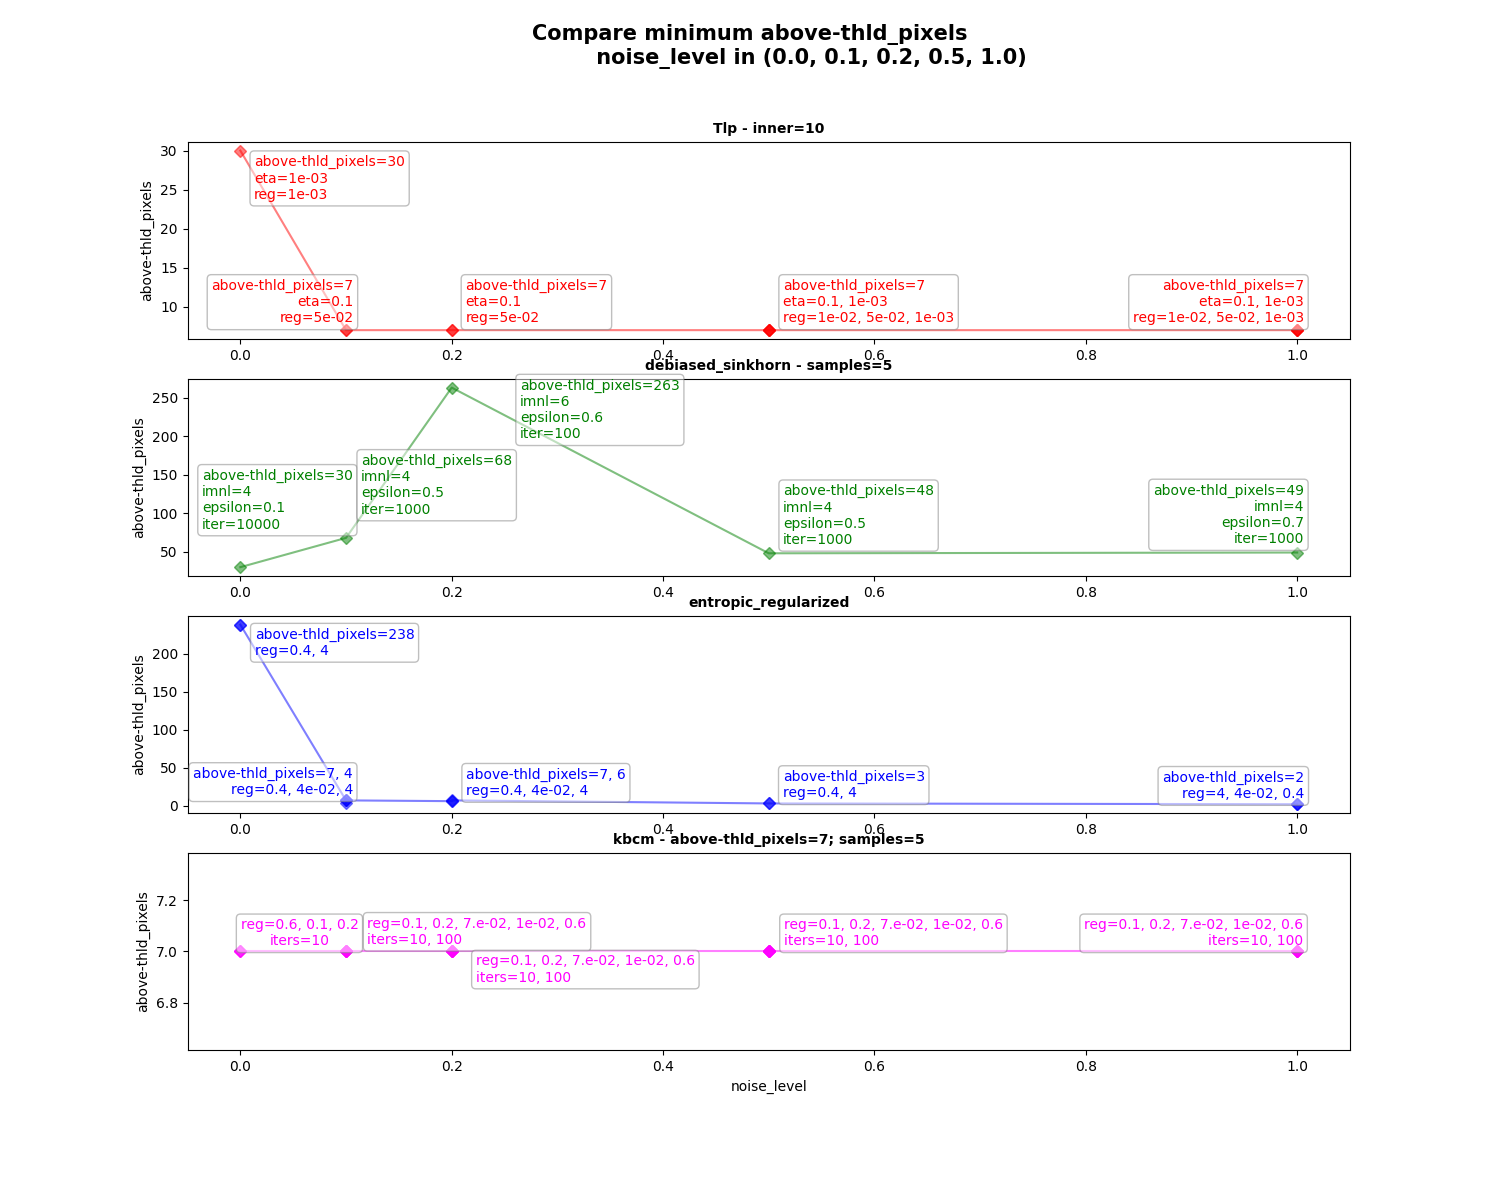
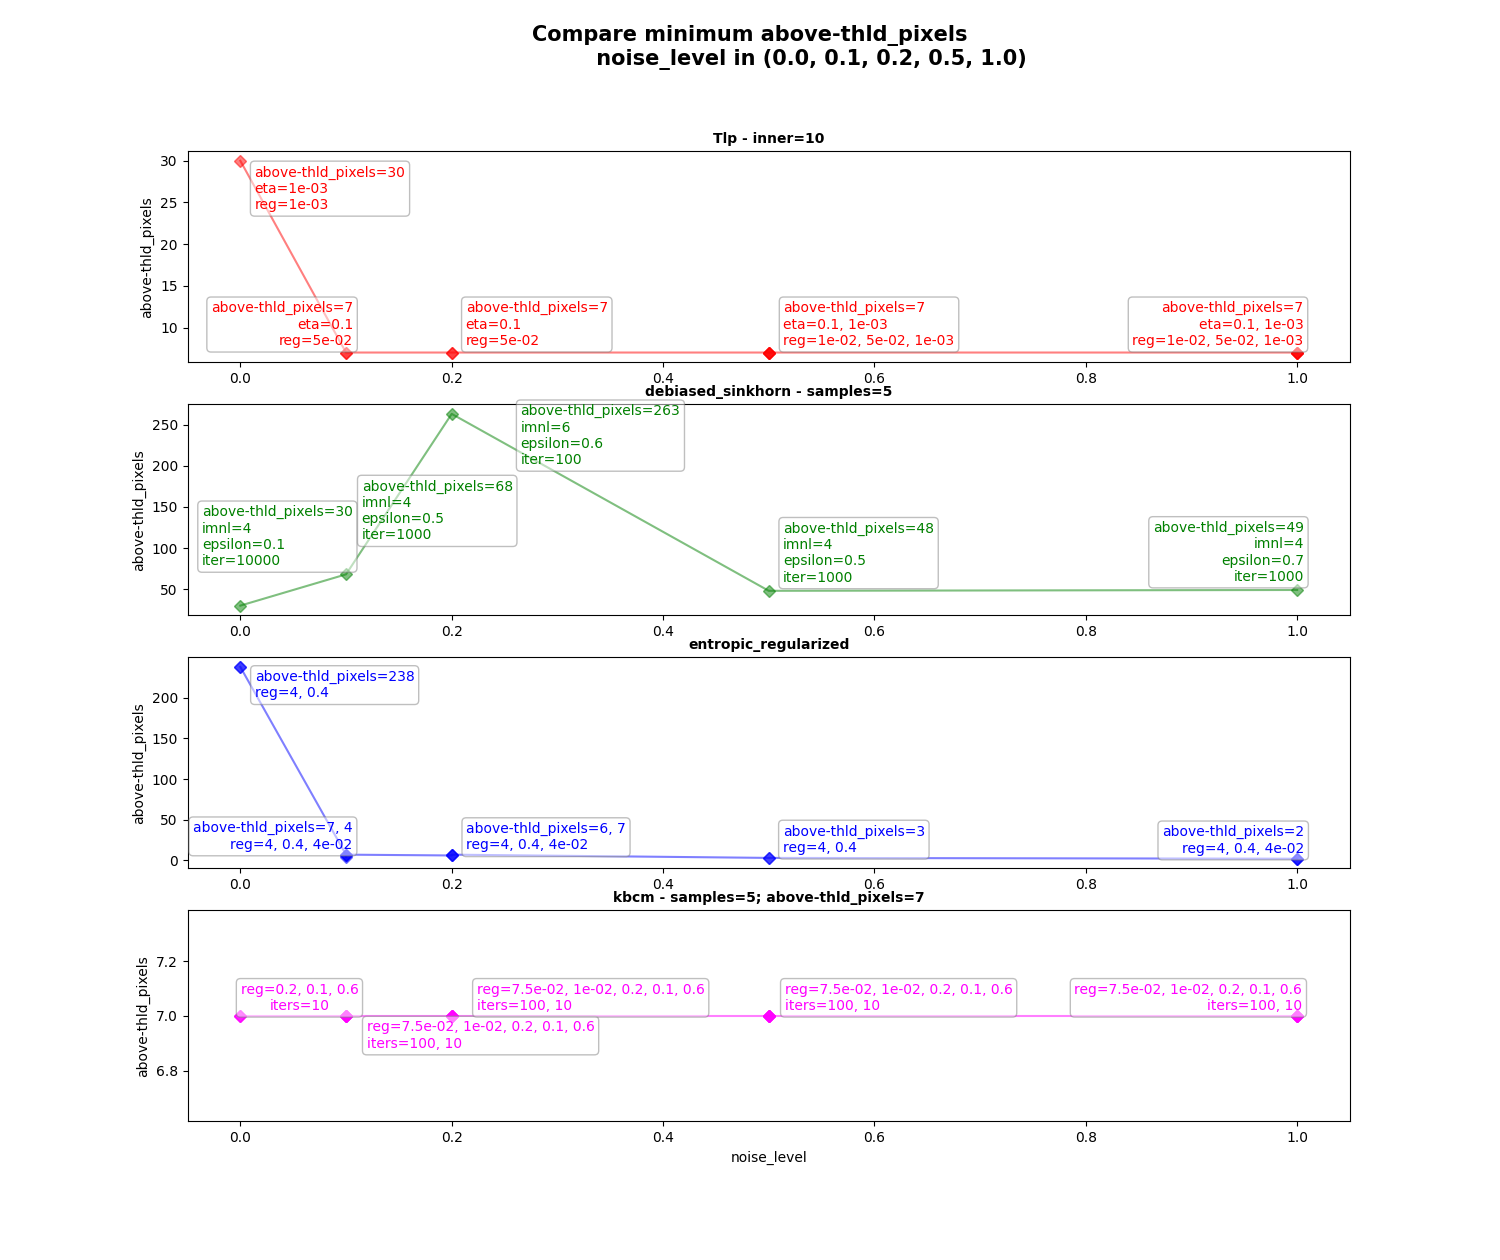
update the comparisons graphs.

diff --git a/deliverable_clean/comparison_criteria/compare.py b/deliverable_clean/comparison_criteria/compare.py
@@ -12,12 +12,15 @@ import standardize
 from adjustText import adjust_text
 from math import log10, floor
 
-round_sig = lambda x, sig=2 : round(x, sig-int(floor(log10(abs(x))))-1)
-
-
-
 def get_label(df) :
+    """
+    Get the description of each point based on the data frame.
+    If multiple parameters give the same output, the parameter p is denoted as :
+        p = a,b,c
+    a,b,c being the possible values of the parameter.
+    """
     def round_sig(x, sig=2):
+        """Round x to a certain amount of significant digits."""
         return round(x, sig-int(floor(log10(abs(x))))-1)
 
     df.dropna(axis=1,how="all",inplace=True)
@@ -57,6 +60,10 @@ def get_label(df) :
 
 
 def get_title_and_text(list_text, plot_title) :
+    """
+    If a parameter's value is the same for every point, add it to the title.
+    This allows to save some space on the plot.
+    """
     set_text = set(list_text[0])
     for l in list_text[1:] :
         set_text = set_text & set(l)
@@ -74,6 +81,9 @@ def get_title_and_text(list_text, plot_title) :
 
 
 def parse_key(key) :
+    """
+    Change the dictionary's keys to shorter or more descriptive keys.
+    """
     true_key = {    "debiased_sink_bary" : "debiased_sinkhorn",
                     "entropic_reg_bary"  : "entropic_regularized",
                     "kbcm_bary"          : "kbcm",
@@ -91,6 +101,9 @@ def parse_key(key) :
 
 
 def get_files(path = "./data"):
+    """
+    Get the barycenters files.
+    """
     directories = [f for f in os.listdir(path) if not os.path.isfile(os.path.join(path, f))]
     directories.remove('noisefrees_control')
 
@@ -105,6 +118,10 @@ def get_files(path = "./data"):
 
 
 def collect(path = "./data/", save=True, save_path="./results/"):
+    """
+    Collect the data from the barycenter's files.
+    Then summarize everything in a DataFrame and save it (if save==True) as a file.
+    """
     tree = get_files(path)
     data = {d : np.array([np.load(os.path.join(path,d,file)) for file in tree[d]]) for d in tree.keys()}
     
@@ -112,7 +129,7 @@ def collect(path = "./data/", save=True, save_path="./results/"):
 
     df = pd.DataFrame(columns=[ "noise_level",
                                 "max_amplitude",
-                                "barycenter_location",
+                                "barycenter_dist",
                                 "above-thld_pixels",
                                 "above-thld_pixels_std",
                                 "algorithm"])
@@ -130,9 +147,9 @@ def collect(path = "./data/", save=True, save_path="./results/"):
                 if key not in ["mean"] :
                     param[parse_key(key)] = float(value[0])
 
-            max_ampl, max_ampl_loc, pixels, std = criteria(barycenter)
+            max_ampl, barycenter_loc, pixels, std = criteria(barycenter)
             param["max_amplitude"] = max_ampl
-            param["barycenter_location"] = max_ampl_loc
+            param["barycenter_dist"] = barycenter_loc
             param["above-thld_pixels"] = pixels
             param["above-thld_pixels_std"] = std
             df = df.append(param, ignore_index=True)
@@ -146,6 +163,9 @@ def collect(path = "./data/", save=True, save_path="./results/"):
 def compare_max_amplitude(show_plot=True,
                           save_plot=True,
                           show_points_params=True):
+    """
+    Compare the max amplitude of the barycenter's for each algorithms.
+    """
     df = pd.read_csv(os.path.join("./results", "DataFrame_summary.csv"))
     make_plot(df = df,
               min_or_max = "max", 
@@ -158,6 +178,11 @@ def compare_max_amplitude(show_plot=True,
 def compare_obv_thr_pixels_std(show_plot=True,
                                save_plot=True,
                                show_points_params=True):
+    """
+    Compare the standard deviation of the pixels above threshold (threshold = 1/2 * max_amplitude).
+    Get the minimum std for each algorithm.
+    The smallest activation zone is better as we want a sharp barycenter.
+    """
     def adapted_l2(vector) :
         vector = list(vector)
         new_vector = []
@@ -189,6 +214,10 @@ def compare_obv_thr_pixels_std(show_plot=True,
 def compare_obv_thr_pixels(show_plot=True,
                            save_plot=True,
                            show_points_params=True):
+    """
+    Compare the number of pixels above threshold (threshold = 1/2 * max_amplitude).
+    The smallest number of pixels above threshold is best as we want a sharp barycenter.
+    """
     def count_pixels(pixels) :
         pixels = list(pixels)
         new_pixels = []
@@ -214,9 +243,16 @@ def compare_obv_thr_pixels(show_plot=True,
               show_points_params=show_points_params)
 
 
-def compare_barycenter_location(show_plot=True, 
+def compare_barycenter_dist(show_plot=True, 
                                 save_plot=True, 
                                 show_points_params=True):
+    """
+    Compare the barycenter's distance to the image's center.
+    We generate the data so that the barycenters are determined to be in the center of the image (24.5,24.5)
+    as long as we compute it on the n'th first images, n even.
+    We then compare the smallest l2 norm between the barycenter's center and the image's center.
+    The barycenter's center is computed as the weighted average of all the above threshold pixels.
+    """
     def adapted_l2(vector) :
         vector = list(vector)
         new_vector = []
@@ -236,10 +272,10 @@ def compare_barycenter_location(show_plot=True,
         return new_vector
 
     df = pd.read_csv(os.path.join("./results", "DataFrame_summary.csv"))
-    df["barycenter_location"] = adapted_l2(df["barycenter_location"]) #/!\ here we have the true average equal to (24.5,24.5) and not (25,25) due to the rounding as integer. See generate_data_noise_grading.py line 60.
+    df["barycenter_dist"] = adapted_l2(df["barycenter_dist"]) #/!\ here we have the true average equal to (24.5,24.5) and not (25,25) due to the rounding as integer. See generate_data_noise_grading.py line 60.
     make_plot(df=df,
               min_or_max="min",
-              variable="barycenter_location",
+              variable="barycenter_dist",
               show_plot=show_plot, 
               save_plot=save_plot, 
               show_points_params=show_points_params)
@@ -251,6 +287,10 @@ def make_plot(df,
               show_plot=True, 
               save_plot=True, 
               show_points_params=True):
+    """
+    Make the plot for any comparison.
+    If show_points_params==True, show the parameters of the algorithms for a each point.
+    """
 
     df = df[df['noise_level'] != 0.05]
 
@@ -258,7 +298,7 @@ def make_plot(df,
                                    "algorithm", 
                                    variable])
 
-    to_be_droped = list({"barycenter_location", 
+    to_be_droped = list({"barycenter_dist", 
                          "above-thld_pixels", 
                          "above-thld_pixels_std", 
                          "max_amplitude"} - {variable})
@@ -281,7 +321,7 @@ def make_plot(df,
 
     nb_algo = len(sub_df["algorithm"].unique())
 
-    plt.figure(1,figsize=(15,1+2.7*nb_algo))
+    plt.figure(1,figsize=(15,1+2.9*nb_algo))
     colors = ["red", "green", "blue", "magenta", "orange", "cyan"]
     i=0
     for algo in sub_df["algorithm"].unique() :
@@ -342,11 +382,18 @@ def make_plot(df,
         plt.show()
     plt.close()
 
-
-
-if __name__ == "__main__":
-    # collect("../test_algos/results")
+def compare_all(re_collect=True):
+    """
+    Run all the comparisons.
+    """
+    if re_collect:
+        collect("../test_algos/results")
     compare_max_amplitude(show_plot=False)
     compare_obv_thr_pixels_std(show_plot=False)
     compare_obv_thr_pixels(show_plot=False)
-    compare_barycenter_location(show_plot=False)
+    compare_barycenter_dist(show_plot=False)
+
+
+
+if __name__ == "__main__":
+    compare_all()
